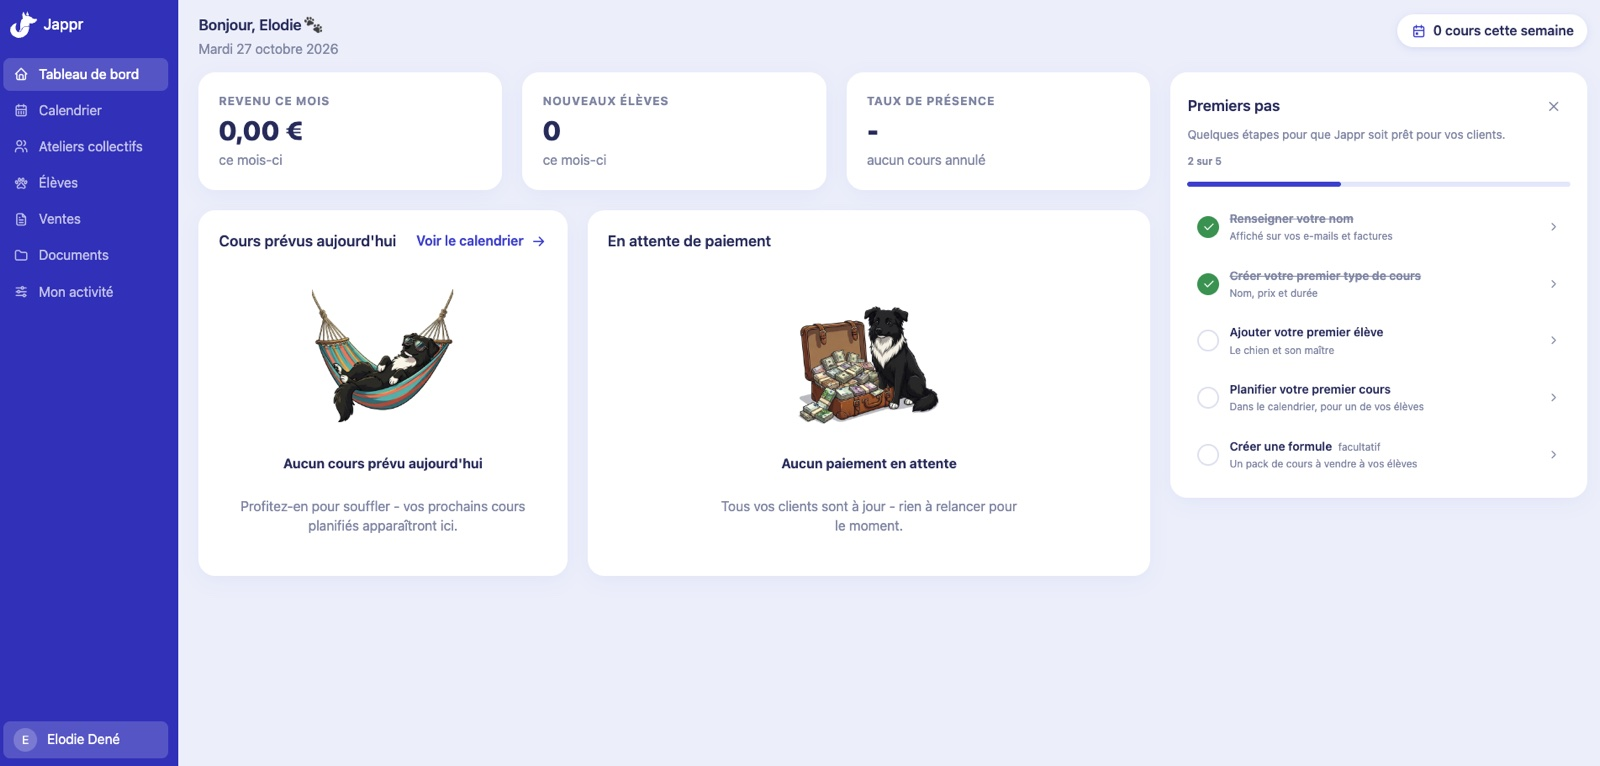
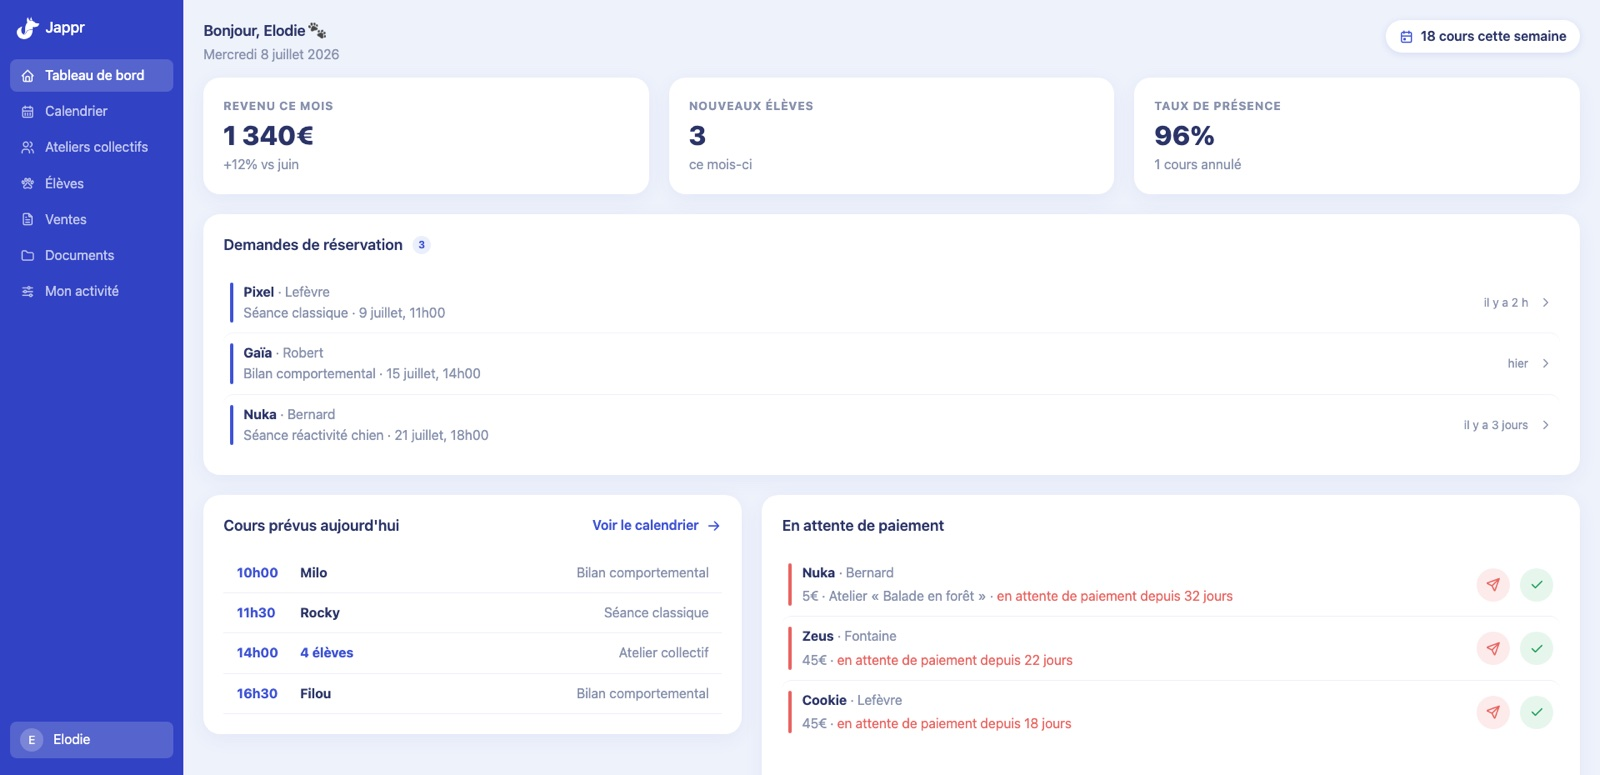
Jappr : carrousel de 7 écrans avec des données de démo cohérentes

diff --git a/projet-jappr.html b/projet-jappr.html
@@ -308,22 +308,38 @@ uniquement ces tokens.</code></pre>
             <div class="cs-wrap cs-flow-head">
                 <div data-reveal>
                     <h3 class="cs-h3">Le système appliqué</h3>
-                    <p class="cs-body">L'app éducateur, construite avec ces composants et ces tokens.</p>
+                    <p class="cs-body">Les deux apps, éducateur et client, construites avec ces composants et ces tokens.</p>
                 </div>
-                <div class="cs-flow-hint">3 écrans · faire défiler →</div>
+                <div class="cs-flow-hint">7 écrans · faire défiler →</div>
             </div>
-            <div class="cs-flow" role="region" aria-label="Écrans de l'app éducateur, 3 écrans" tabindex="0">
+            <div class="cs-flow" role="region" aria-label="Écrans de Jappr, 7 écrans" tabindex="0">
                 <figure class="cs-flow-card cs-flow-card--wide">
-                    <div class="cs-flow-frame"><img src="images/jappr-dashboard.jpg" width="1600" height="766" alt="Tableau de bord de Jappr : revenu du mois, nouveaux élèves, taux de présence, cours du jour, paiements en attente et premiers pas" loading="lazy" decoding="async"></div>
-                    <figcaption><span class="cs-flow-num">01</span><div><div class="cs-flow-title">Tableau de bord</div><div class="cs-flow-desc">Les chiffres du mois en haut, puis les cours du jour et les paiements en attente. Une checklist «&nbsp;Premiers pas&nbsp;» guide la prise en main.</div></div></figcaption>
+                    <div class="cs-flow-frame"><img src="images/jappr-profil.jpg" width="1600" height="775" alt="Profil public de l'éducatrice dans l'app client : présentation, spécialités, types de cours, avis et bouton de réservation" loading="lazy" decoding="async"></div>
+                    <figcaption><span class="cs-flow-num">01</span><div><div class="cs-flow-title">Profil public</div><div class="cs-flow-desc">Côté app client, le propriétaire découvre l'éducatrice, ses spécialités et ses tarifs, puis envoie une demande de réservation.</div></div></figcaption>
                 </figure>
                 <figure class="cs-flow-card cs-flow-card--wide">
-                    <div class="cs-flow-frame"><img src="images/jappr-planification.jpg" width="1600" height="766" alt="Modale de planification d'un cours : élève, type de cours, durée, date, créneaux disponibles, lieu et note" loading="lazy" decoding="async"></div>
-                    <figcaption><span class="cs-flow-num">02</span><div><div class="cs-flow-title">Planifier un cours</div><div class="cs-flow-desc">Les créneaux disponibles tiennent compte du trajet jusqu'au domicile de l'élève. Un seul bouton primary dans la modale.</div></div></figcaption>
+                    <div class="cs-flow-frame"><img src="images/jappr-dashboard.jpg" width="1600" height="775" alt="Tableau de bord : chiffres du mois, demandes de réservation, cours du jour et paiements en attente" loading="lazy" decoding="async"></div>
+                    <figcaption><span class="cs-flow-num">02</span><div><div class="cs-flow-title">Tableau de bord</div><div class="cs-flow-desc">Les demandes de réservation, les cours du jour et les impayés à relancer, dès l'ouverture de l'app.</div></div></figcaption>
                 </figure>
                 <figure class="cs-flow-card cs-flow-card--wide">
-                    <div class="cs-flow-frame"><img src="images/jappr-workshops.jpg" width="1600" height="766" alt="Modale de création d'un atelier collectif : nom, durée, date, lieu et nombre de places" loading="lazy" decoding="async"></div>
-                    <figcaption><span class="cs-flow-num">03</span><div><div class="cs-flow-title">Créer un atelier collectif</div><div class="cs-flow-desc">L'éducatrice crée le créneau et fixe le nombre de places. Chaque participant confirme sa présence par e-mail, et l'atelier est complet une fois les places prises.</div></div></figcaption>
+                    <div class="cs-flow-frame"><img src="images/jappr-planification.jpg" width="1600" height="775" alt="Modale de planification d'un cours pour Nuka : type, durée, date, créneau, lieu et note" loading="lazy" decoding="async"></div>
+                    <figcaption><span class="cs-flow-num">03</span><div><div class="cs-flow-title">Planifier un cours</div><div class="cs-flow-desc">Les créneaux disponibles tiennent compte du trajet jusqu'au domicile du client. Un seul bouton primary dans la modale.</div></div></figcaption>
+                </figure>
+                <figure class="cs-flow-card cs-flow-card--wide">
+                    <div class="cs-flow-frame"><img src="images/jappr-workshops.jpg" width="1600" height="775" alt="Liste des ateliers collectifs et détail de la balade en forêt avec ses participants confirmés" loading="lazy" decoding="async"></div>
+                    <figcaption><span class="cs-flow-num">04</span><div><div class="cs-flow-title">Ateliers collectifs</div><div class="cs-flow-desc">Les ateliers à venir, les places restantes et la liste des participants qui ont confirmé.</div></div></figcaption>
+                </figure>
+                <figure class="cs-flow-card cs-flow-card--wide">
+                    <div class="cs-flow-frame"><img src="images/jappr-eleve.jpg" width="1600" height="775" alt="Fiche élève de Nuka : propriétaire, cours à venir, historique et documents" loading="lazy" decoding="async"></div>
+                    <figcaption><span class="cs-flow-num">05</span><div><div class="cs-flow-title">Fiche élève</div><div class="cs-flow-desc">Le chien, son maître, ses cours à venir, son historique et ses documents sur une seule page.</div></div></figcaption>
+                </figure>
+                <figure class="cs-flow-card cs-flow-card--wide">
+                    <div class="cs-flow-frame"><img src="images/jappr-fiche.jpg" width="1600" height="775" alt="Fiche d'informations de Nuka, section Comportement, dans le form-builder" loading="lazy" decoding="async"></div>
+                    <figcaption><span class="cs-flow-num">06</span><div><div class="cs-flow-title">Fiche d'informations</div><div class="cs-flow-desc">Les informations du bilan, rangées par sections : le chien, son mode de vie, son comportement, sa santé et ses objectifs.</div></div></figcaption>
+                </figure>
+                <figure class="cs-flow-card cs-flow-card--wide">
+                    <div class="cs-flow-frame"><img src="images/jappr-compte-rendu.jpg" width="1600" height="775" alt="Modale d'envoi d'un compte rendu de séance avec deux documents joints" loading="lazy" decoding="async"></div>
+                    <figcaption><span class="cs-flow-num">07</span><div><div class="cs-flow-title">Envoyer un compte rendu</div><div class="cs-flow-desc">Après la séance, le compte rendu part dans l'espace du client, avec les exercices à travailler à la maison.</div></div></figcaption>
                 </figure>
             </div>
         </section>
